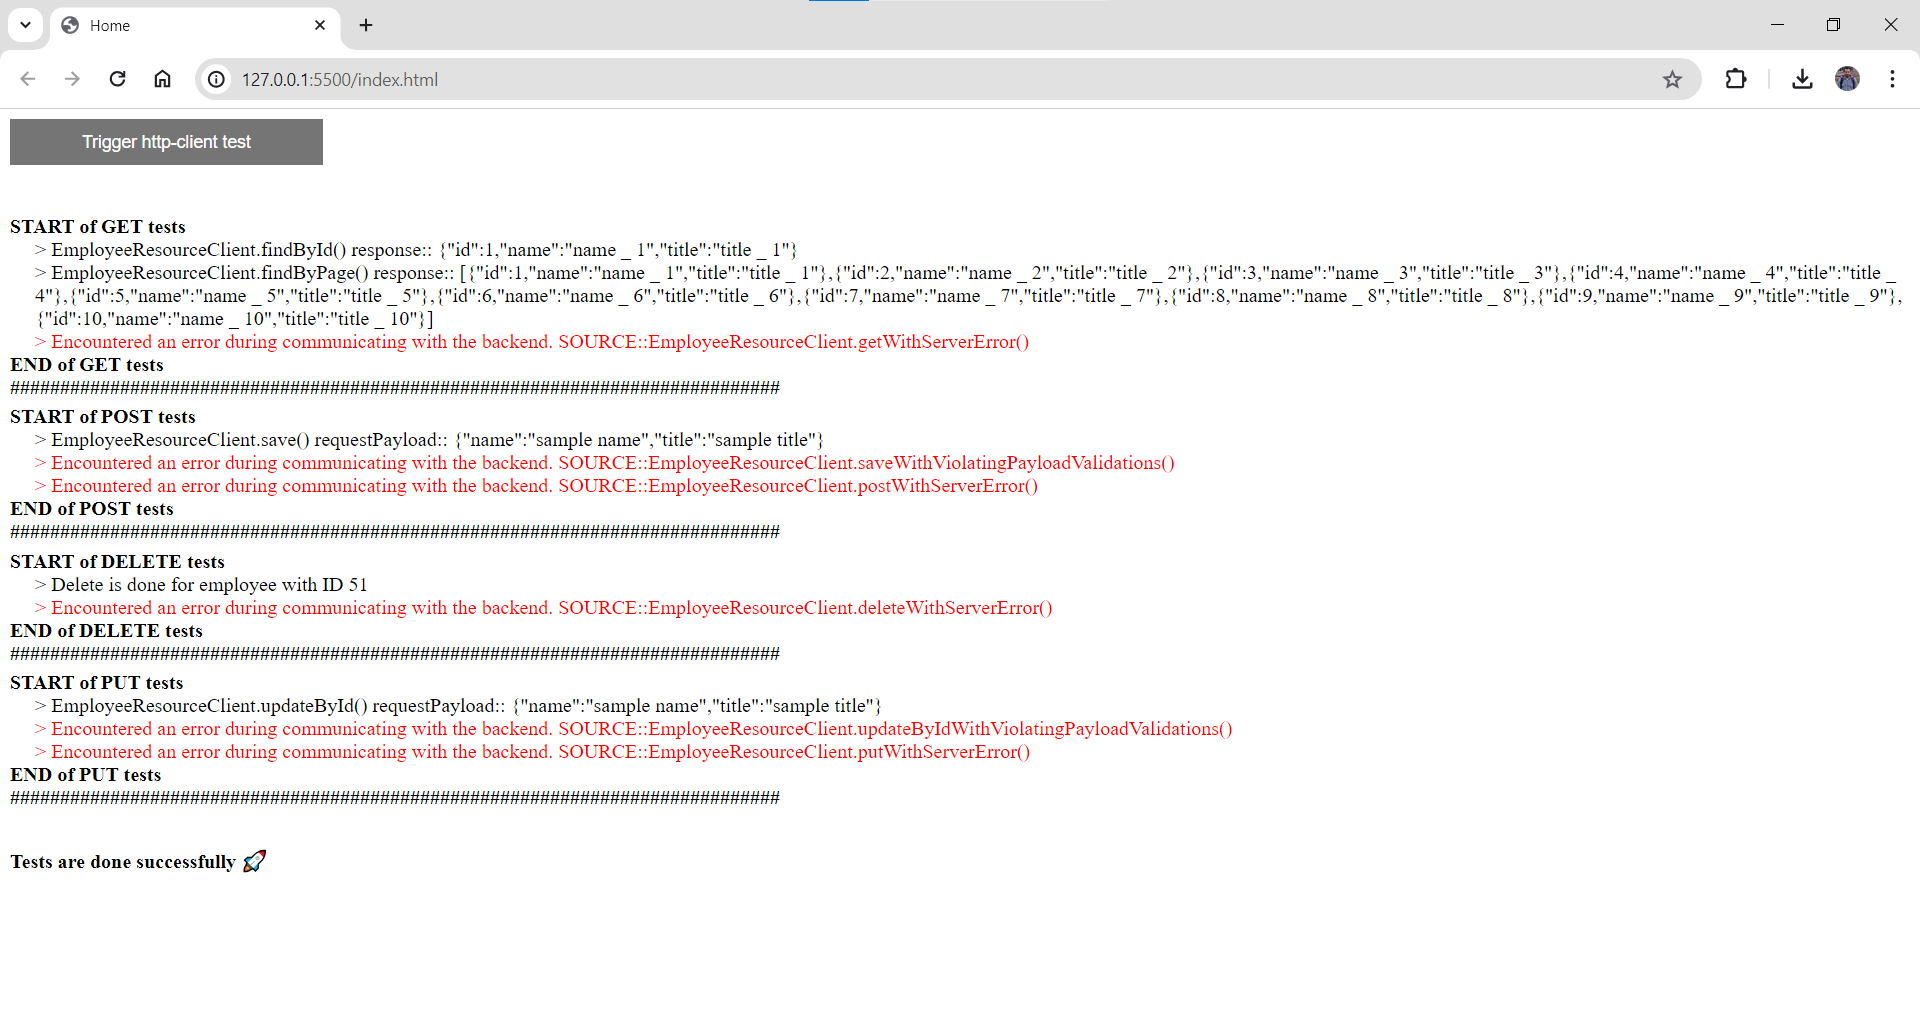
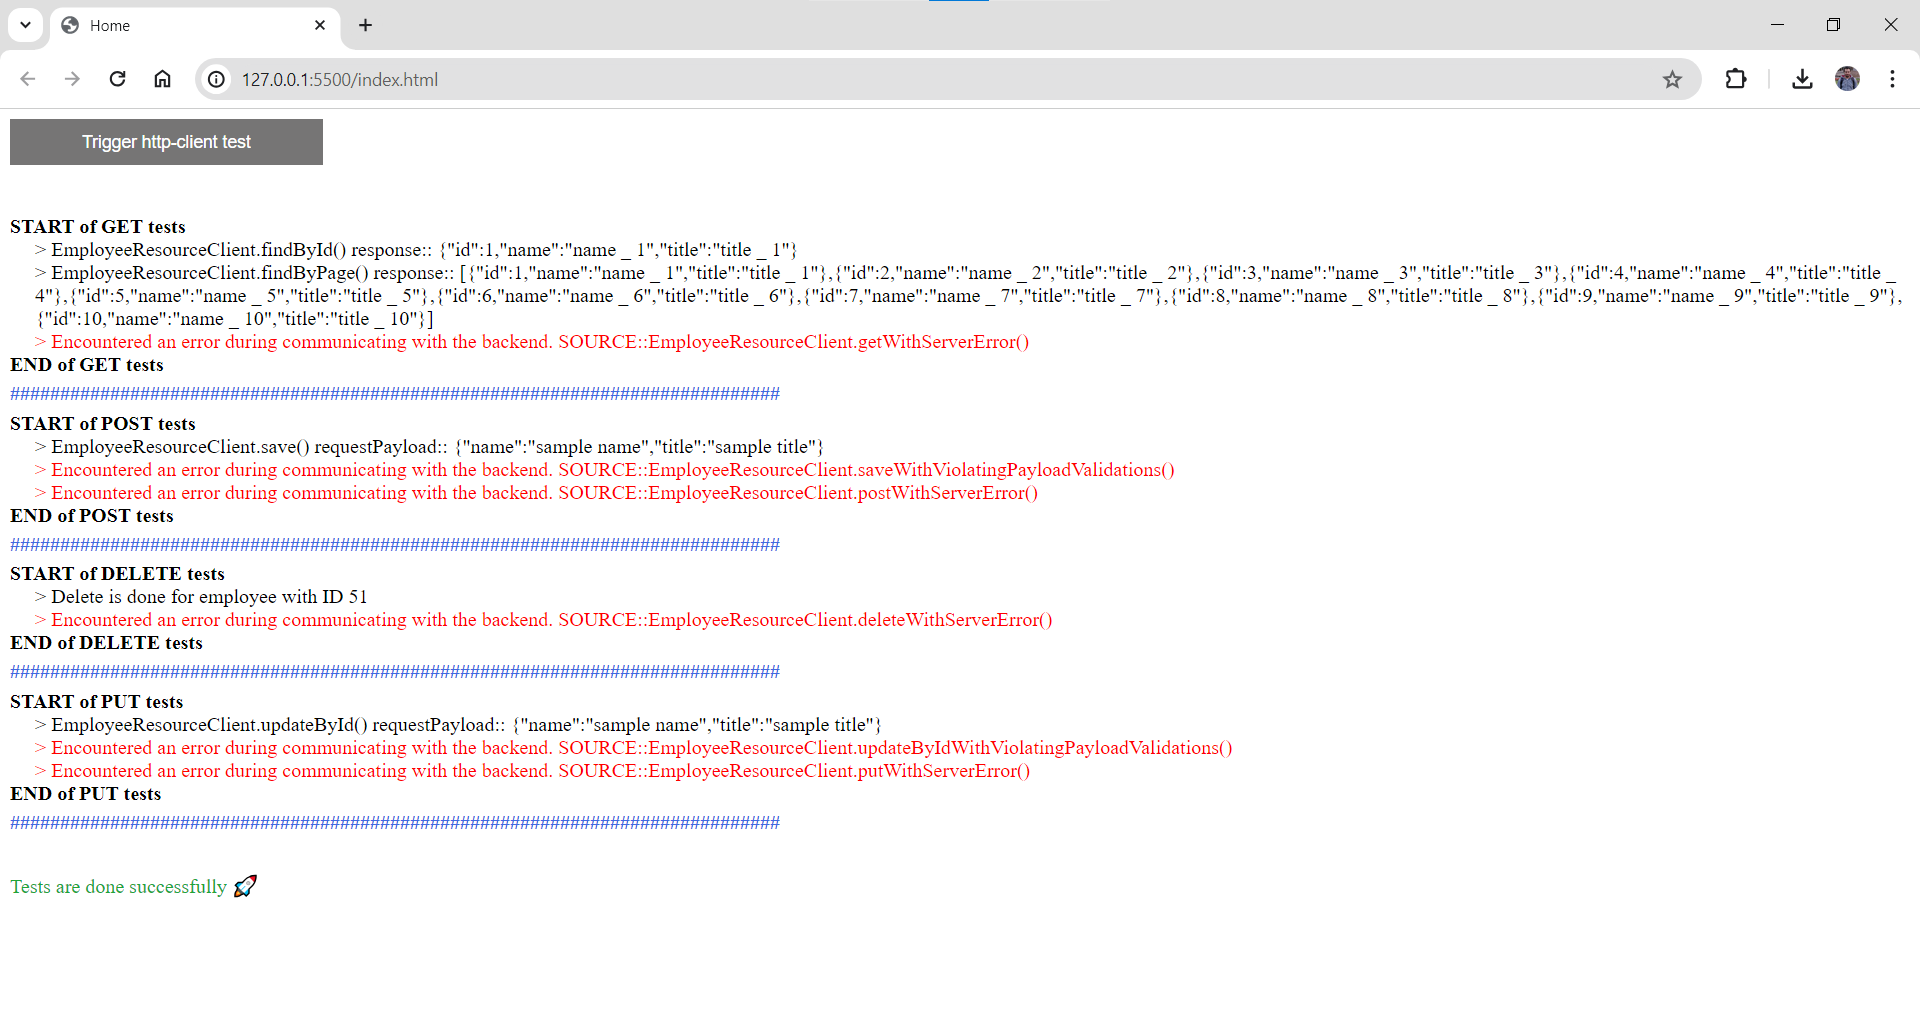
code refactoring

Changed region(s): [[0.0, 0.3728, 0.625, 0.8699]]

diff --git a/MainController.js b/MainController.js
@@ -4,48 +4,52 @@ function launcher() {
     var employeeResourceClient = new EmployeeResourceClient();
  
     // GET tests
-    var collectedOutput = "<div style=\"font-weight: bold;\">START of GET tests</div>";
+    var collectedOutput = "<div class=\"tests-package-container\">START of GET tests</div>";
     var outputOfFindById = employeeResourceClient.findById();
-    collectedOutput += "<div style=\"margin-left: 20px;\">> " + outputOfFindById + "</div>";
+    collectedOutput += "<div class=\"correct-response\">> " + outputOfFindById + "</div>";
     var outputOfFindByPage = employeeResourceClient.findByPage();
-    collectedOutput += "<div style=\"margin-left: 20px;\">> " + outputOfFindByPage + "</div>";
+    collectedOutput += "<div class=\"correct-response\">> " + outputOfFindByPage + "</div>";
     var outputOfGetWithServerError = employeeResourceClient.getWithServerError();
-    collectedOutput += "<div style=\"color: red; margin-left: 20px;\">> " + outputOfGetWithServerError + "</div>";
-    collectedOutput += "<div style=\"font-weight: bold;\">END of GET tests</div>";
-    collectedOutput += "<div style=\"font-weight: bold;\">#############################################################################</div>";
+    collectedOutput += "<div class=\"wrong-response\">> " + outputOfGetWithServerError + "</div>";
+    collectedOutput += "<div class=\"tests-package-container\">END of GET tests</div>";
+
+    collectedOutput += "<div class=\"tests-separator\">#############################################################################</div>";
     
     // POST tests    
-    collectedOutput += "<div style=\"font-weight: bold; margin-top: 5px;\">START of POST tests</div>";
+    collectedOutput += "<div class=\"tests-package-container\">START of POST tests</div>";
     var outputOfSave = employeeResourceClient.save();
-    collectedOutput += "<div style=\"margin-left: 20px;\">> " + outputOfSave + "</div>";
+    collectedOutput += "<div class=\"correct-response\">> " + outputOfSave + "</div>";
     var outputOfSaveWithViolatingPayloadValidations = employeeResourceClient.saveWithViolatingPayloadValidations();
-    collectedOutput += "<div style=\"color: red; margin-left: 20px;\">> " + outputOfSaveWithViolatingPayloadValidations + "</div>";
+    collectedOutput += "<div class=\"wrong-response\">> " + outputOfSaveWithViolatingPayloadValidations + "</div>";
     var outputOfPostWithServerError = employeeResourceClient.postWithServerError();
-    collectedOutput += "<div style=\"color: red; margin-left: 20px;\">> " + outputOfPostWithServerError + "</div>";
-    collectedOutput += "<div style=\"font-weight: bold;\">END of POST tests</div>";
-    collectedOutput += "<div style=\"font-weight: bold;\">#############################################################################</div>";
+    collectedOutput += "<div class=\"wrong-response\">> " + outputOfPostWithServerError + "</div>";
+    collectedOutput += "<div class=\"tests-package-container\">END of POST tests</div>";
+
+    collectedOutput += "<div class=\"tests-separator\">#############################################################################</div>";
     
     // DELETE tests
-    collectedOutput += "<div style=\"font-weight: bold; margin-top: 5px;\">START of DELETE tests</div>";
+    collectedOutput += "<div class=\"tests-package-container\">START of DELETE tests</div>";
     var outputOfDeleteById = employeeResourceClient.deleteById();
-    collectedOutput += "<div style=\"margin-left: 20px;\">> " + outputOfDeleteById + "</div>";
+    collectedOutput += "<div class=\"correct-response\">> " + outputOfDeleteById + "</div>";
     var outputOfDeleteWithServerError = employeeResourceClient.deleteWithServerError();
-    collectedOutput += "<div style=\"color: red; margin-left: 20px;\">> " + outputOfDeleteWithServerError + "</div>";
-    collectedOutput += "<div style=\"font-weight: bold;\">END of DELETE tests</div>";
-    collectedOutput += "<div style=\"font-weight: bold;\">#############################################################################</div>";
+    collectedOutput += "<div class=\"wrong-response\">> " + outputOfDeleteWithServerError + "</div>";
+    collectedOutput += "<div class=\"tests-package-container\">END of DELETE tests</div>";
+
+    collectedOutput += "<div class=\"tests-separator\">#############################################################################</div>";
 
     // PUT tests
-    collectedOutput += "<div style=\"font-weight: bold; margin-top: 5px;\">START of PUT tests</div>";
+    collectedOutput += "<div class=\"tests-package-container\">START of PUT tests</div>";
     var outputOfUpdateById = employeeResourceClient.updateById();
-    collectedOutput += "<div style=\"margin-left: 20px;\">> " + outputOfUpdateById + "</div>";
+    collectedOutput += "<div class=\"correct-response\">> " + outputOfUpdateById + "</div>";
     var outputOfUpdateByIdWithViolatingPayloadValidations = employeeResourceClient.updateByIdWithViolatingPayloadValidations();
-    collectedOutput += "<div style=\"color: red; margin-left: 20px;\">> " + outputOfUpdateByIdWithViolatingPayloadValidations + "</div>";
+    collectedOutput += "<div class=\"wrong-response\">> " + outputOfUpdateByIdWithViolatingPayloadValidations + "</div>";
     var outputOfPutWithServerError = employeeResourceClient.putWithServerError();
-    collectedOutput += "<div style=\"color: red; margin-left: 20px;\">> " + outputOfPutWithServerError + "</div>";
-    collectedOutput += "<div style=\"font-weight: bold;\">END of PUT tests</div>";
-    collectedOutput += "<div style=\"font-weight: bold;\">#############################################################################</div>";
+    collectedOutput += "<div class=\"wrong-response\">> " + outputOfPutWithServerError + "</div>";
+    collectedOutput += "<div class=\"tests-package-container\">END of PUT tests</div>";
 
-    collectedOutput += "<div style=\"font-weight: bold; margin-top: 30px;\">Tests are done successfully 🚀</div>";
+    collectedOutput += "<div class=\"tests-separator\">#############################################################################</div>";
+
+    collectedOutput += "<div class=\"result-of-tests\">Tests are done successfully 🚀</div>";
 
     document.getElementById("experimentOutput").innerHTML = collectedOutput;
 }

diff --git a/css/styles.css b/css/styles.css
@@ -1,0 +1,39 @@
+button {     
+    background-color: rgb(118, 117, 117); 
+    border: none;
+    color: white;
+    padding: 10px 20px;
+    text-align: center;
+    font-size: 14px;
+    width: 250px;
+    cursor: pointer;
+}
+
+#experimentOutput {
+    margin-top: 40px;
+}
+
+.tests-package-container {
+    font-weight: bold;
+}
+
+.correct-response {
+    margin-left: 20px;
+}
+
+.wrong-response {
+    margin-left: 20px;
+    color: red;
+}
+
+.tests-separator {
+    font-weight: bold;
+    color: royalblue;
+    margin-top: 5px;
+    margin-bottom: 5px;
+}
+
+.result-of-tests {
+    margin-top: 30px;
+    color: rgb(32, 166, 55);
+}

diff --git a/index.html b/index.html
@@ -12,7 +12,7 @@
     <script src="./integration/clients/EmployeeResourceClient.js"></script>
     <script src="./MainController.js"></script>
 
-    <link rel="stylesheet" href="./css/style.css">
+    <link rel="stylesheet" href="./css/styles.css">
 </head>
 
 <body>
